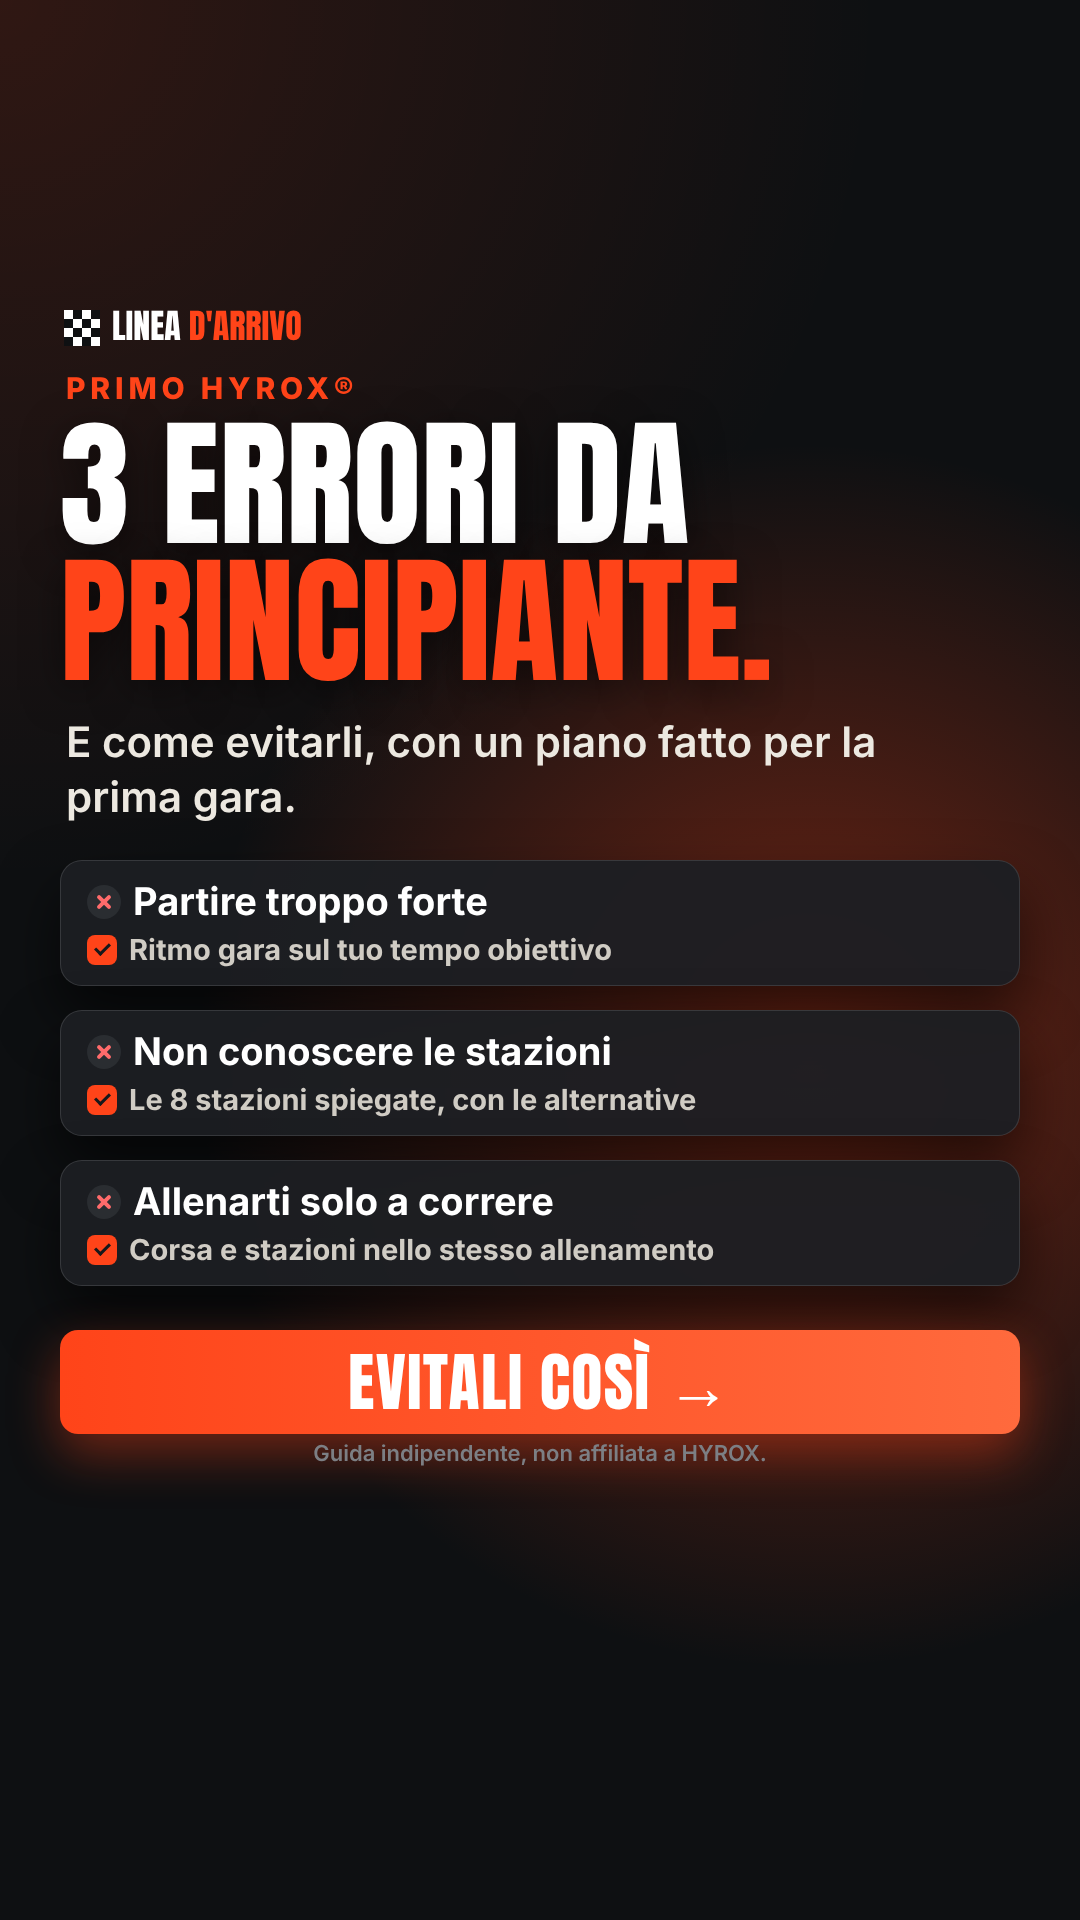
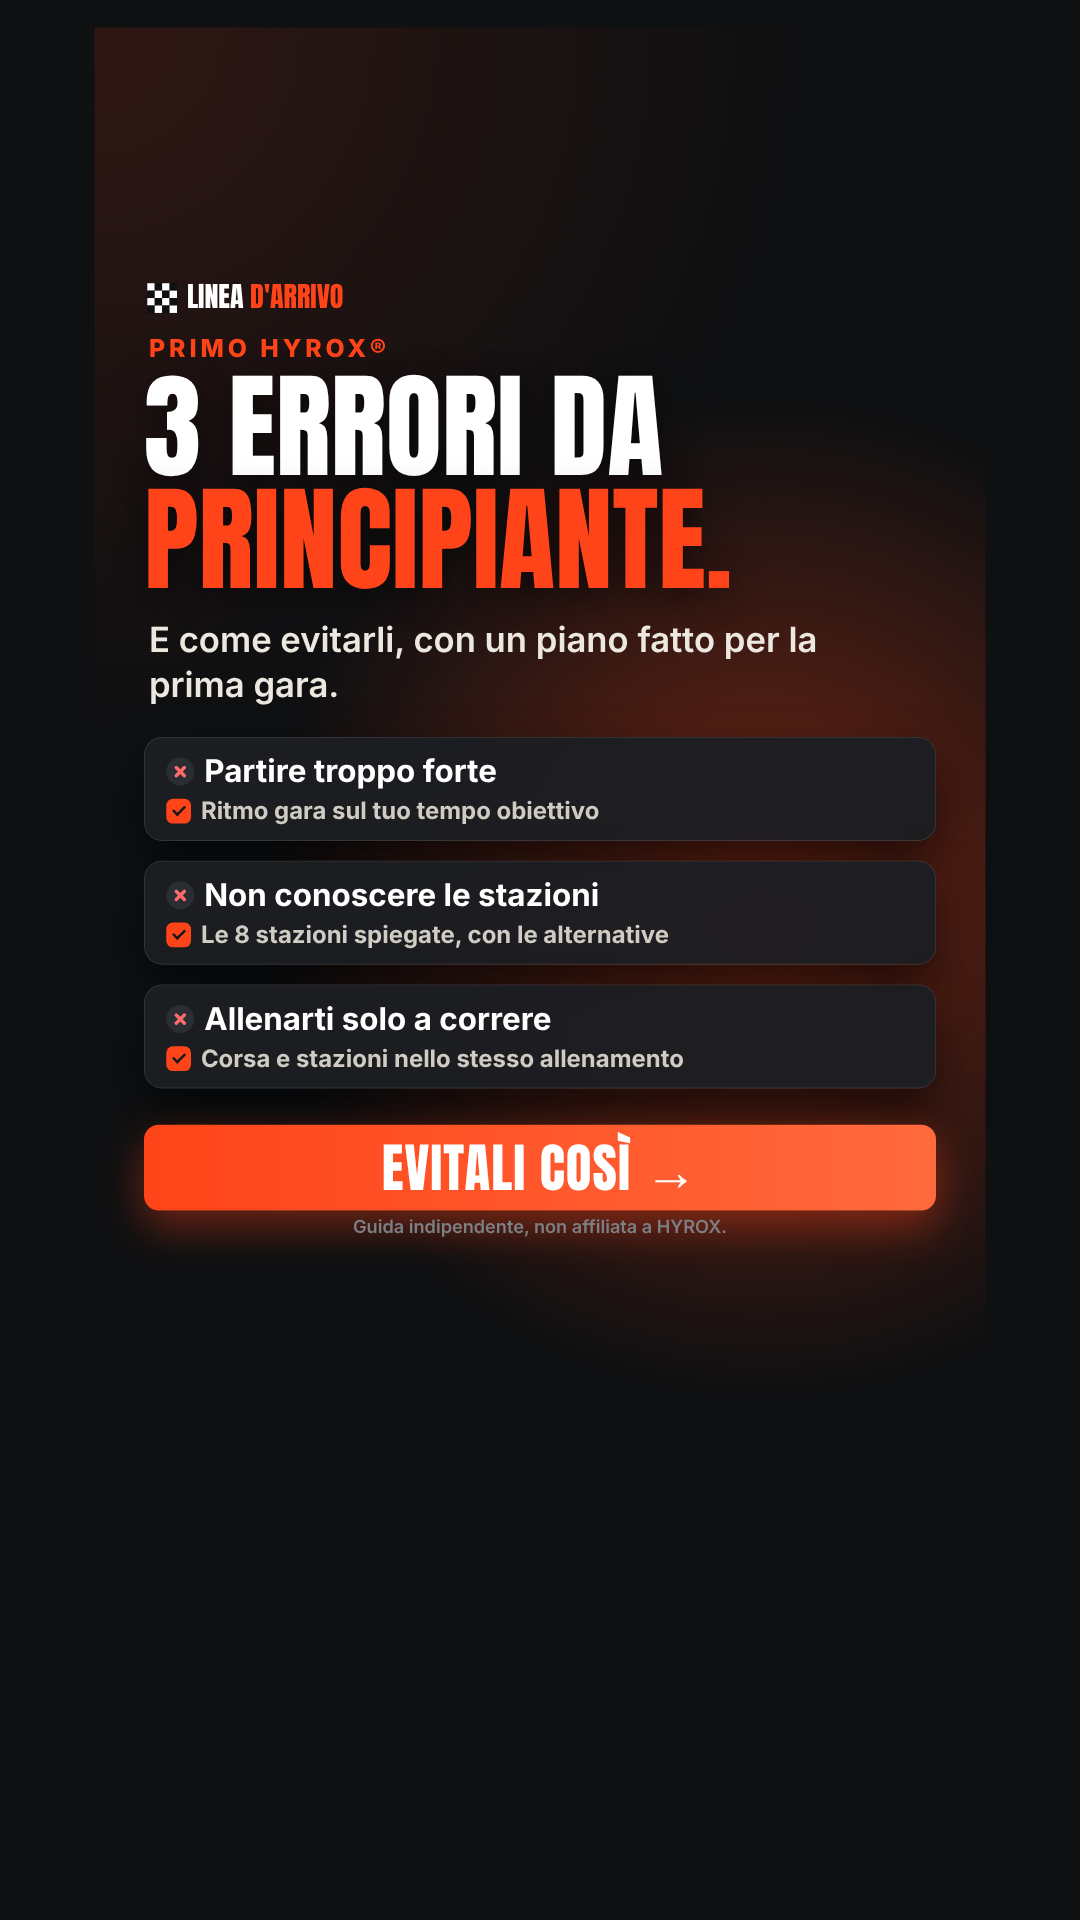
Inserzioni nuova campagna: verticali 1080x1920 con tutto il contenuto nelle zone sicure di Storie e Reel (niente sotto didascalia e icone)
Claude-Session: https://claude.ai/code/session_01HHPwk3PCq7f6nrGW8fQo3b

diff --git a/strumenti/inserzioni-senza-prezzo.js b/strumenti/inserzioni-senza-prezzo.js
@@ -1,5 +1,5 @@
 // Inserzioni "nuova campagna senza prezzo" (13/11/2026): 5 angoli, senza prezzo, date, gare o città.
-// Formati: 1080x1080 e 1080x1920 (zone libere: 270 px in alto, 430 px in basso). Caroselli 1080x1080 per gli angoli 3 e 4.
+// Formati: 1080x1080 e 1080x1920. Nel verticale tutto il contenuto sta tra 275 e 1240 px (zone libere Meta: 14% in alto, 35% in basso per i Reel, margini laterali per le icone). Caroselli 1080x1080 per gli angoli 3 e 4.
 // Uso: node inserzioni-senza-prezzo.js cartella_uscita
 const { chromium } = require('playwright');
 const fs = require('fs'); const path = require('path');
@@ -187,7 +187,7 @@ ${phone(IMG.piano, 640, 150, 320, 5)}<div class="cta" style="left:60px;top:720px
   };
   const only = process.argv[3];
   for (const a of ADS) { if (only && !a.id.includes(only)) continue;
-    await shot(1080, 1080, a.q(), `${a.id}-1080x1080.png`); await shot(1080, 1920, a.v(270), `${a.id}-1080x1920.png`); }
+    await shot(1080, 1080, a.q(), `${a.id}-1080x1080.png`); await shot(1080, 1920, `<div class="abs" style="inset:0;transform:scale(.825);transform-origin:540px 157px">${a.v(270)}</div>`, `${a.id}-1080x1920.png`); }
   for (const c of CAR) { if (only && !c.id.includes(only)) continue;
     for (let i = 0; i < c.slides.length; i++) await shot(1080, 1080, c.slides[i](i + 1, c.slides.length), `${c.id}-carosello-${i + 1}-1080x1080.png`); }
   await b.close(); console.log('ok', out);
